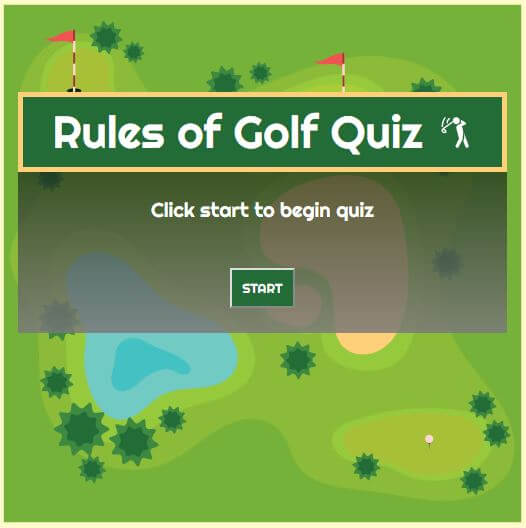
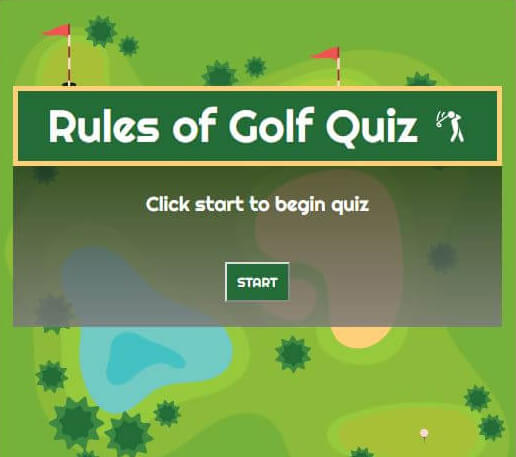
update images and links

diff --git a/index.html b/index.html
@@ -60,10 +60,10 @@
                 <div class="screenshot">
                     <div class="thumbnails">
                         <img class="thumbnail" alt="quiz app screenshot 1" src="images/quiz-app-screenshot.JPG"/>
-                        <img class="thumbnail" alt="quiz app screenshot 2" src="images/quiz-app-screenshot2.JPG"//>
-                        <img class="thumbnail" alt="quiz app screenshot 3" src="images/quiz-app-screenshot3.JPG"//>
-                        <img class="thumbnail" alt="quiz app screenshot 4" src="images/quiz-app-screenshot4.JPG"/>
-                        <img class="thumbnail" alt="quiz app screenshot 5" src="images/quiz-app-screenshot5.JPG"/>
+                        <img class="thumbnail" alt="quiz app screenshot 2" src="images/quiz-app-screenshot2.png"//>
+                        <img class="thumbnail" alt="quiz app screenshot 3" src="images/quiz-app-screenshot3.png"//>
+                        <img class="thumbnail" alt="quiz app screenshot 4" src="images/quiz-app-screenshot4.png"/>
+                        <img class="thumbnail" alt="quiz app screenshot 5" src="images/quiz-app-screenshot5.png"/>
                     </div>
                 </div>
                 <div class="name">

diff --git a/large-display.css b/large-display.css
@@ -6,12 +6,12 @@
     }
 
     .screenshot {
-        height: 100%;
-        width: 55%;
+        height: 95%;
+        width: 45%;
     }
 
     .name, .desc, .tech-logos {
-        width: 40%;
+        width: 50%;
     }
 
     .thumbnails {

diff --git a/mid-size-display.css b/mid-size-display.css
@@ -42,6 +42,7 @@
 
     .screenshot {
         min-height: 220px;
+        max-width: 450px;
         width: 40%;
     }
 
